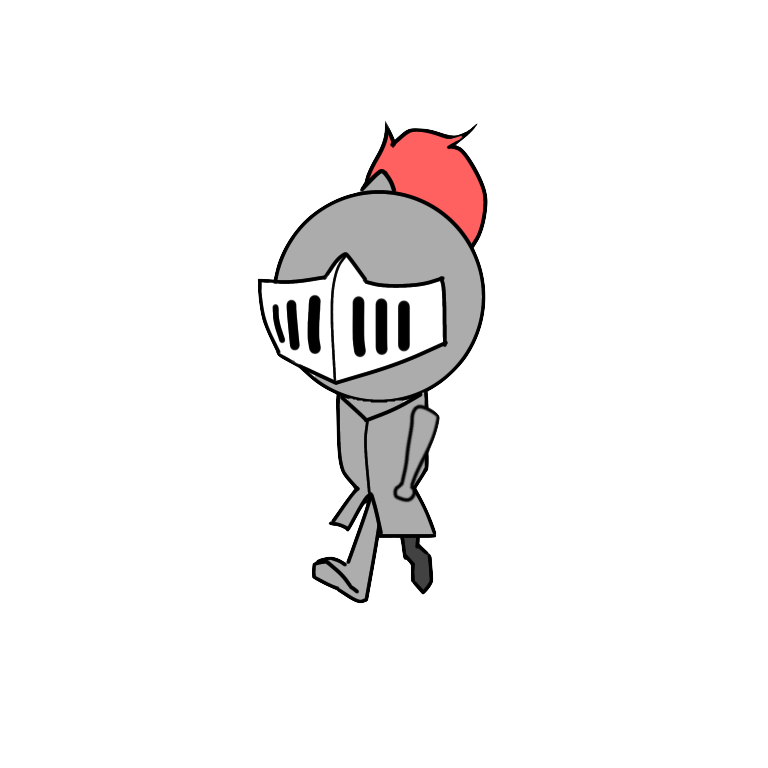
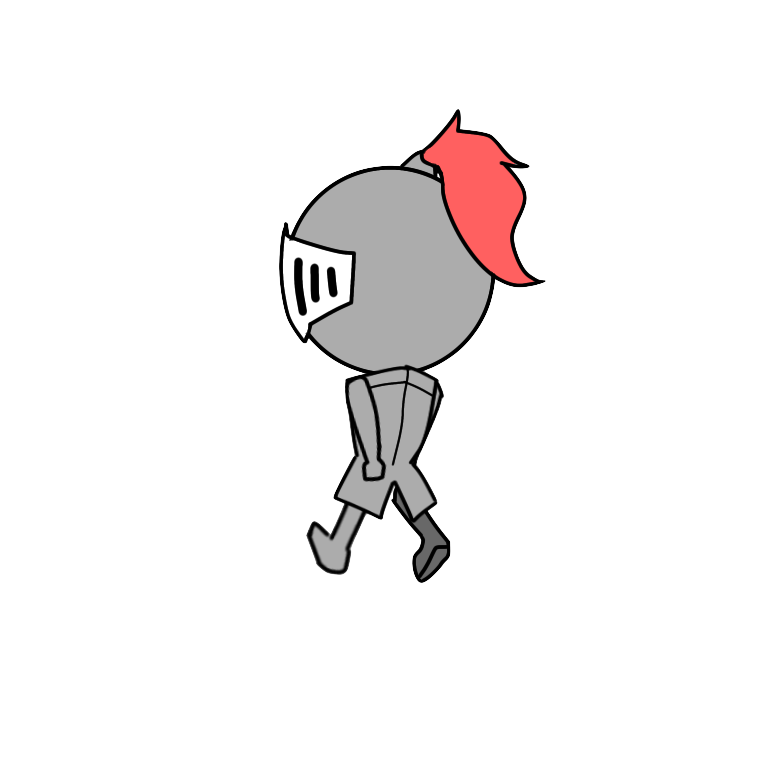
グラフィックの改善

Changed region(s): [[0.3125, 0.1562, 0.7188, 0.7812]]

diff --git a/js/player_view.js b/js/player_view.js
@@ -8,57 +8,62 @@ class PlayerView extends Object {
         let image = new PIXI.Texture.from(src);
         this.player = new PIXI.Sprite(image);
         // playerの幅(app.width/7は1マス分)
-        this.sizeX = width / 7;
+        // this.sizeX = width/3;
         // playerの高さ(app.height/7は1マス分)
-        this.sizeY = height / 7;
+        // this.sizeY = height/3;
         // playerのx座標(初期位置3マス目に設定)
-        this.player.x = this.sizeX * 3;
+        this.player.x = width / 2.5;
         // playerのy座標(初期位置4マス目に設定)
-        this.player.y = this.sizeY * 4;
-        this.player.width = width;
-        this.player.height = height;
+        this.player.y = height / 3.1;
+        this.player.width = width/3;
+        this.player.height = height/3;
     }
 
     // 向いてる方向に1マス分進ませる関数
     goAhead(direction){
         switch (direction){
             case 0:
-                let point = this.player.y - this.height/7;
-                while(this.player.y > point){
-                    this.player.y -= 0.01;
-                    this.draw();
-                }
+                this.x -= this.player.width/14;
+                this.y += this.player.height/28;
                 break;
             case 1:
-                this.player.x += this.width/7;
+                this.x -= this.player.width/14;
+                this.y -= this.player.height/28;
                 break;
             case 2:
-                this.player.y += this.height/7;
+                this.x += this.player.width/14;
+                this.y -= this.player.height/28;
                 break;
             case 3:
-                this.player.x -= this.width/7;
+                this.x += this.player.width/14;
+                this.y += this.player.height/28;
                 break;
         }
     }
 
+
+
     // player(Model)のdirectionに画像を対応させる関数
+    image;
     turnRight(direction){
-        // PIXIのアニメーションに置き換える
-        /*
         switch (direction){
             case 0:
-                this.img.src = "images/player_north.png";
+                this.image = new PIXI.Texture.from("images/player4.png");
+                this.player = new PIXI.Sprite(this.image);
                 break;
             case 1:
-                this.img.src = "images/player_east.png";
+                this.image = new PIXI.Texture.from("images/player3.png");
+                this.player = new PIXI.Sprite(this.image);
                 break;
             case 2:
-                this.img.src = "images/player_south.png";
+                this.image = new PIXI.Texture.from("images/player2.png");
+                this.player = new PIXI.Sprite(this.image);
                 break;
             case 3:
-                this.img.src = "images/player_west.png";
+                this.image = new PIXI.Texture.from("images/player1.png");
+                this.player = new PIXI.Sprite(this.image);
                 break;
-        }*/
+        }
     }
 
 

diff --git a/js/game_controller.js b/js/game_controller.js
@@ -8,6 +8,9 @@ class GameController{
         this.mapModel = mapModel;
         this.stageNumber
         this.numTarget
+
+        this.actionFlag = 0;
+        this.blockList;
     }
 
     setStageInfo(stageNumber, numTarget){
@@ -36,30 +39,34 @@ class GameController{
     // ModelとViewに右折を命令する関数
     turnPlayer(){
         this.playerModel.turnRight();
-        this.playerView.turnRight(this.playerModel.getDirection());
+        // this.playerView.turnRight(this.playerModel.getDirection());
     }
 
     pickUpPlayer(){
         if(this.mapModel.getState(playerModel.x, playerModel.y) == 3){
             this.playerModel.pickUpItem()
-            this.mapModel.setState(this.playerModel.x, this.playerModel.y, this.mapModel.mapState.state.CAN_MOVE)
+            // this.mapModel.setState(this.playerModel.x, this.playerModel.y, this.mapModel.mapState.state.CAN_MOVE)
         }else{
-            alert("There is no item.")
+            // alert("There is no item.")
         }
 
         if(this.playerModel.numItem == this.numTarget){
-            alert("STAGE " + this.stageNumber + " CLEAR!!")
+            // alert("STAGE " + this.stageNumber + " CLEAR!!")
             this.playerModel.numItem = 0;
         }
     }
 
     doCode(workspace){
+        // アクションフラグを立てる0->1
+        this.actionFlag = 1;
+        console.log("this.actionFlag = 1;");
+
         //blocklyからブロックリストを取得
-        var block_list = Blockly.JavaScript.workspaceToCode(workspace).split("\n");
-        
+        this.blockList = Blockly.JavaScript.workspaceToCode(workspace).split("\n");
+
         //ブロック毎にプログラムを実行
         try{
-            for(const block of block_list){
+            for(const block of this.blockList){
             //ブロック毎に設定されたアクションはここに記述！！！！！！
                 switch (block){
                     case "go_ahead":
@@ -106,6 +113,8 @@ class GameController{
                 break;
         }
     }
+
+
 }
 
 
